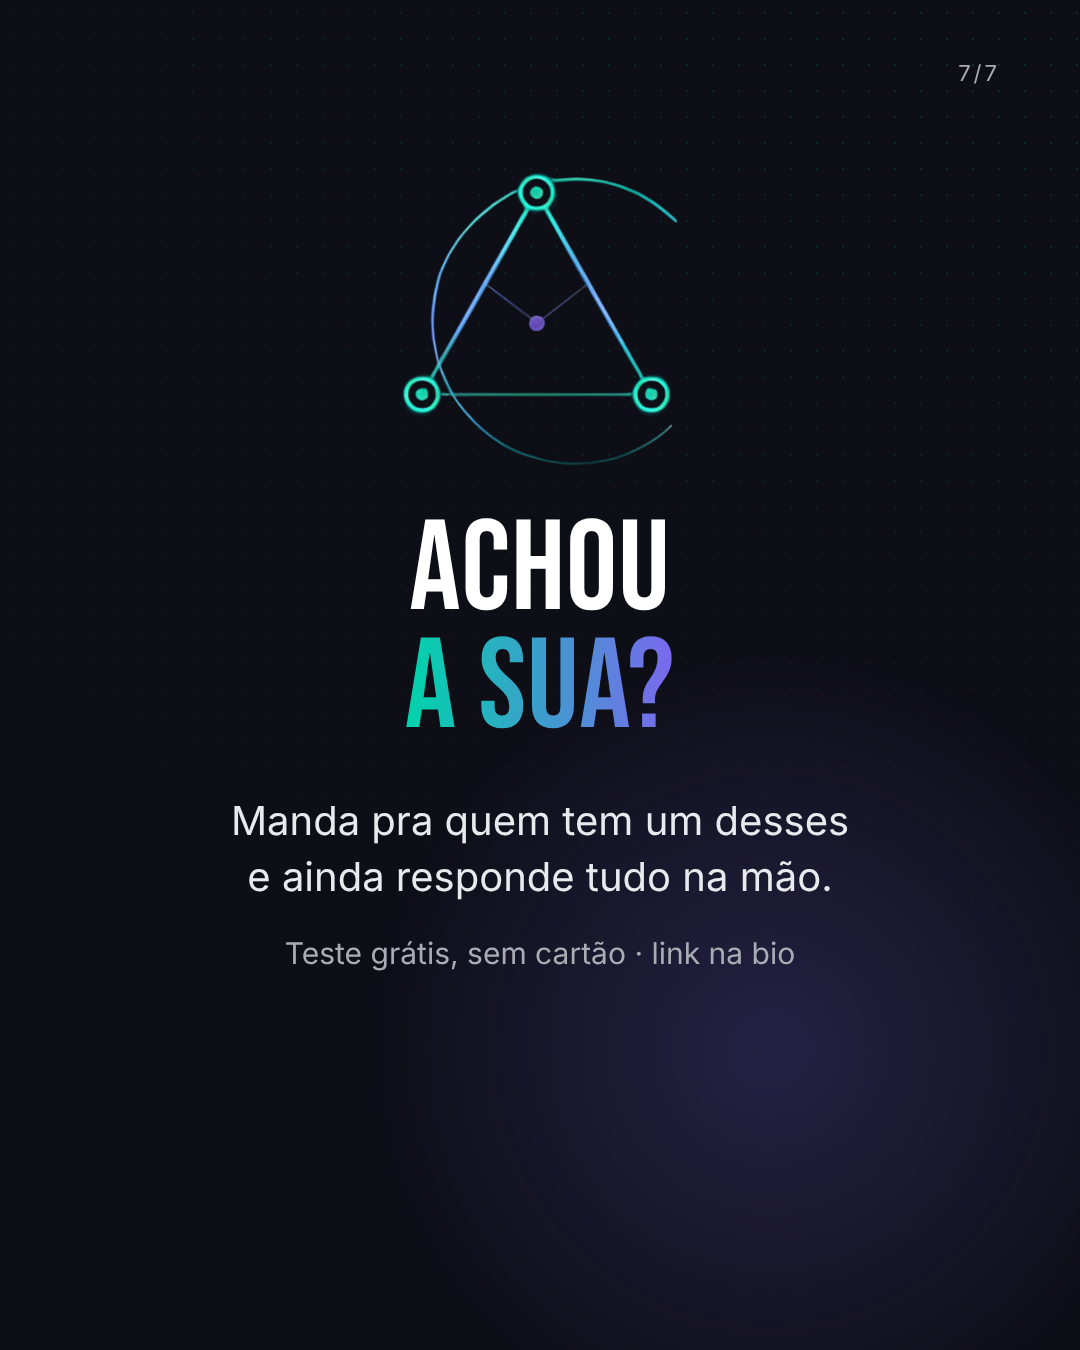
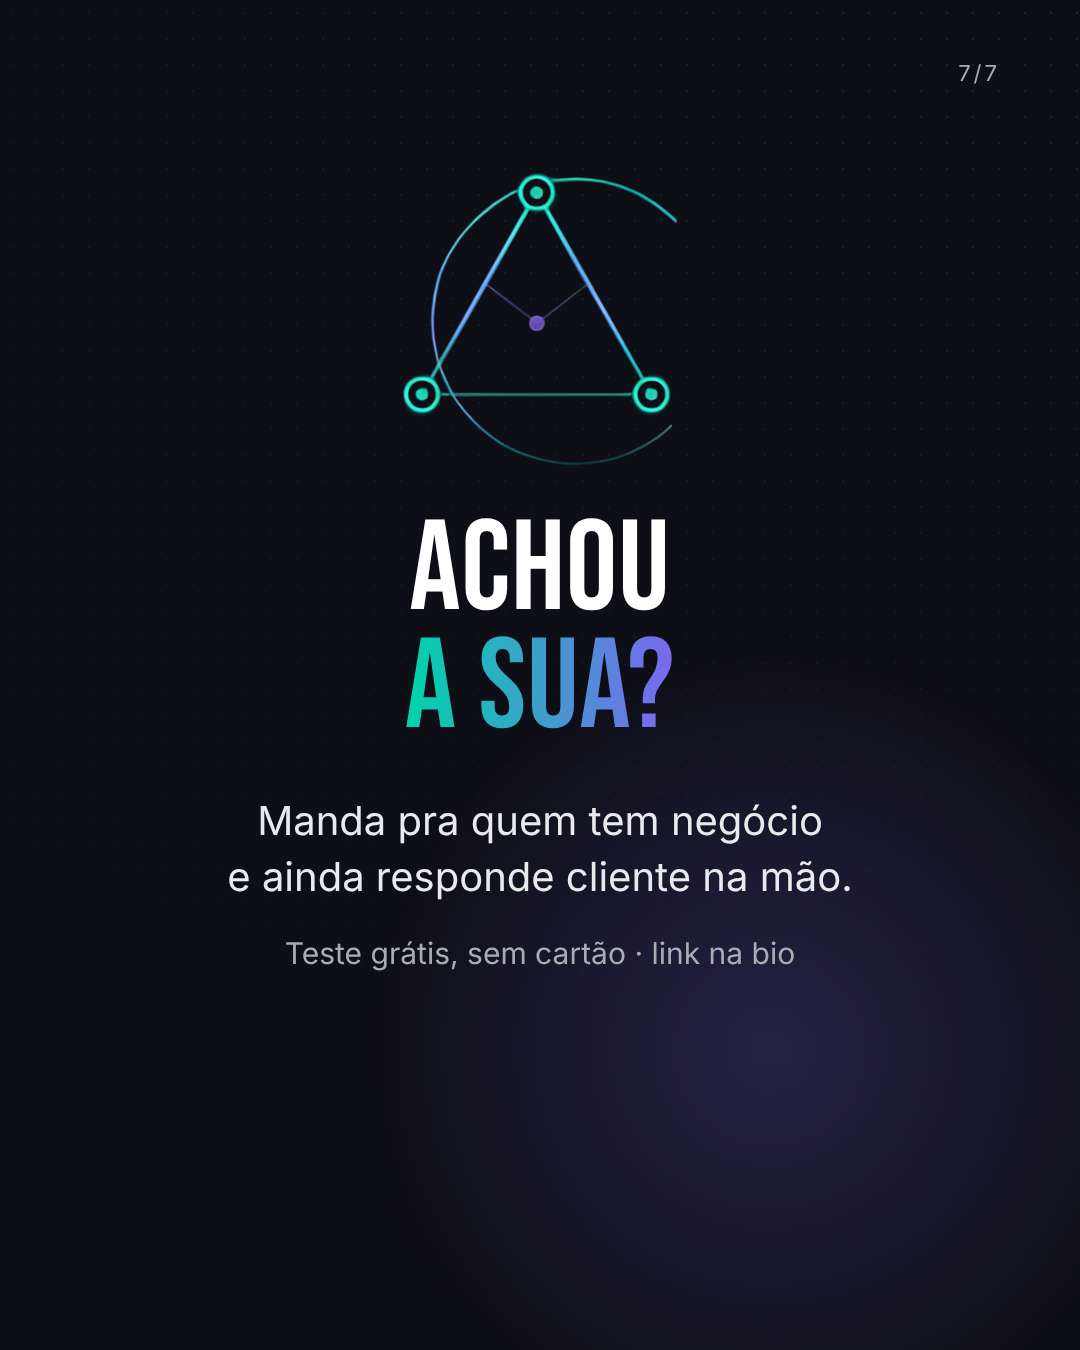
Carrossel 30 negócios: frase do slide 7 mais clara
Claude-Session: https://claude.ai/code/session_01BjUtgfjoU4JRqxZijLSVJq

Changed region(s): [[0.2139, 0.5911, 0.7944, 0.6844]]

diff --git a/conteudo/lancamento-2026-11-10/carrossel-30-negocios/_fonte/c30.html b/conteudo/lancamento-2026-11-10/carrossel-30-negocios/_fonte/c30.html
@@ -69,7 +69,7 @@ body{width:7560px;height:1350px;position:relative;overflow:hidden}
 <div class="s" style="left:6480px;text-align:center;padding-top:170px"><div class="cnt">7/7</div>
  <img src="marca/simbolo-principal.png" style="width:280px">
  <div class="h" style="font-size:128px;margin-top:40px">ACHOU<br><span class="grad">A SUA?</span></div>
- <div style="font-size:40px;margin-top:46px;line-height:1.4;color:#E9EAEE">Manda pra quem tem um desses<br>e ainda responde tudo na mão.</div>
+ <div style="font-size:40px;margin-top:46px;line-height:1.4;color:#E9EAEE">Manda pra quem tem negócio<br>e ainda responde cliente na mão.</div>
  <div style="font-size:30px;margin-top:30px;color:var(--mut)">Teste grátis, sem cartão · link na bio</div>
 </div>
 </body></html>
